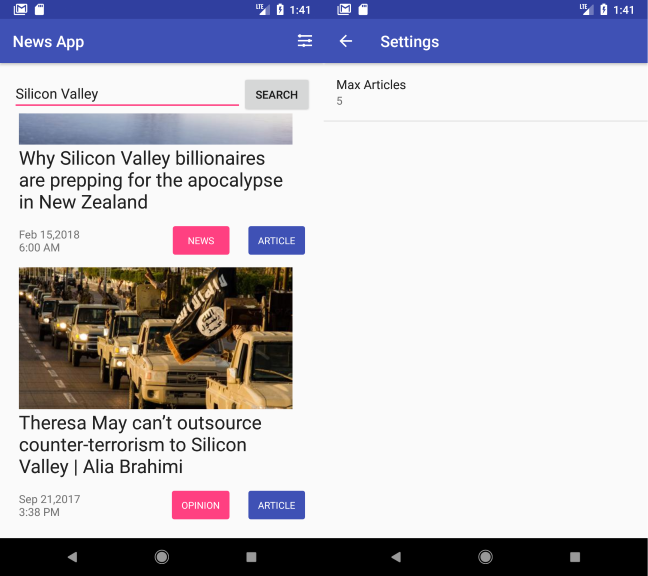
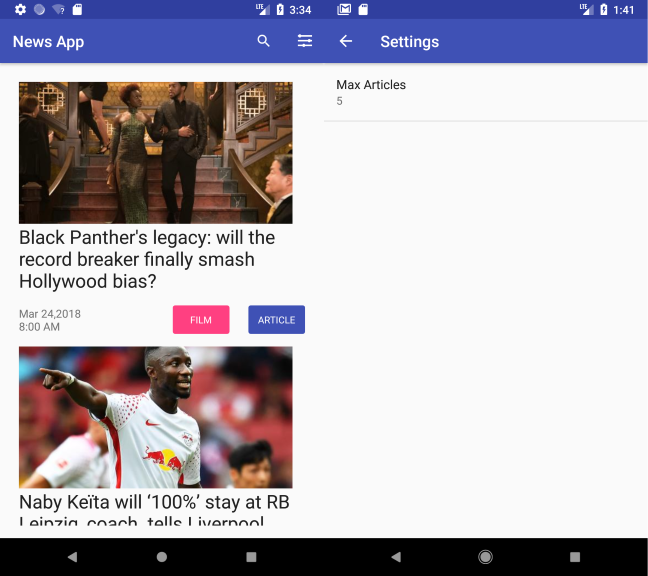
NewsApp: implemented RecyclerView, ViewHolder and SerachView

diff --git a/NewsApp/app/src/main/java/com/example/android/newsapp/MainActivity.java b/NewsApp/app/src/main/java/com/example/android/newsapp/MainActivity.java
@@ -9,8 +9,12 @@ import android.net.ConnectivityManager;
 import android.net.NetworkInfo;
 import android.net.Uri;
 import android.preference.PreferenceManager;
+import android.support.v4.view.MenuItemCompat;
 import android.support.v7.app.AppCompatActivity;
 import android.os.Bundle;
+import android.support.v7.widget.LinearLayoutManager;
+import android.support.v7.widget.RecyclerView;
+import android.util.Log;
 import android.view.Menu;
 import android.view.MenuItem;
 import android.view.View;
@@ -19,17 +23,25 @@ import android.widget.Button;
 import android.widget.EditText;
 import android.widget.ListView;
 import android.widget.ProgressBar;
+import android.widget.SearchView;
 import android.widget.TextView;
 
 import java.util.ArrayList;
 import java.util.List;
 
-public class MainActivity extends AppCompatActivity implements LoaderManager.LoaderCallbacks<List<News>> {
+import javax.security.auth.login.LoginException;
 
+public class MainActivity extends AppCompatActivity implements SearchView.OnQueryTextListener,LoaderManager.LoaderCallbacks<List<News>> {
+
+    public static final String LOG_TAG = MainActivity.class.getName();
+
+    private static final int NEWS_LOADER_ID = 1;
 
     private static final String NEWS_REQUEST_URL = "http://content.guardianapis.com/search";
 
     private String API_URL = "";
+
+    private String searchQuery;
 
     private TextView emptyTextView;
 
@@ -39,54 +51,95 @@ public class MainActivity extends AppCompatActivity implements LoaderManager.Loa
 
     private Button searchButton;
 
+    private RecyclerView mRecyclerView;
+
+    private ProgressBar progressBar;
+
     @Override
     protected void onCreate(Bundle savedInstanceState) {
         super.onCreate(savedInstanceState);
         setContentView(R.layout.activity_main);
 
-        ListView newsListView = (ListView) findViewById(R.id.list);
-
-        mAdapter = new NewsAdapter(this, new ArrayList<News>());
-
-        newsListView.setAdapter(mAdapter);
+        mRecyclerView = (RecyclerView) findViewById(R.id.recycler_view);
 
         emptyTextView = (TextView) findViewById(R.id.empty_view);
-        newsListView.setEmptyView(emptyTextView);
 
-        newsListView.setOnItemClickListener(new AdapterView.OnItemClickListener() {
+        progressBar = (ProgressBar) findViewById(R.id.loading_spinner);
+
+        mRecyclerView.setHasFixedSize(true);
+        LinearLayoutManager mLayoutManager = new LinearLayoutManager(this);
+        mRecyclerView.setLayoutManager(mLayoutManager);
+
+
+        mAdapter = new NewsAdapter(new ArrayList<News>(), new NewsAdapter.OnItemClickListener() {
             @Override
-            public void onItemClick(AdapterView<?> adapterView, View view, int i, long l) {
-                News news = mAdapter.getItem(i);
+            public void onClick(News news) {
+                Log.e(LOG_TAG, "onClick: INTENT");
                 Uri newsUri = Uri.parse(news.getNewsUrl());
                 Intent websiteIntent = new Intent(Intent.ACTION_VIEW, newsUri);
                 startActivity(websiteIntent);
             }
         });
 
+        mRecyclerView.setAdapter(mAdapter);
+
+
+        //mRecyclerView.setEmptyView(emptyTextView);
+
+//        newsListView.setOnItemClickListener(new AdapterView.OnItemClickListener() {
+//            @Override
+//            public void onItemClick(AdapterView<?> adapterView, View view, int i, long l) {
+//                News news = mAdapter.getItem(i);
+//                Uri newsUri = Uri.parse(news.getNewsUrl());
+//                Intent websiteIntent = new Intent(Intent.ACTION_VIEW, newsUri);
+//                startActivity(websiteIntent);
+//            }
+//        });
+
         ConnectivityManager cm = (ConnectivityManager) getSystemService(Context.CONNECTIVITY_SERVICE);
         final NetworkInfo activeNetwork = cm.getActiveNetworkInfo();
 
-        searchButton = (Button) findViewById(R.id.search_button);
-        searchEditText = (EditText) findViewById(R.id.search_view);
-        final LoaderManager loaderManager = getLoaderManager();
-        searchButton.setOnClickListener(new View.OnClickListener() {
-            @Override
-            public void onClick(View view) {
-                if (activeNetwork != null && activeNetwork.isConnectedOrConnecting()) {
-                    loaderManager.destroyLoader(1);
-                    loaderManager.initLoader(1, null, MainActivity.this);
-                } else {
-                    ProgressBar progressBar = (ProgressBar) findViewById(R.id.loading_spinner);
-                    progressBar.setVisibility(View.GONE);
-                    emptyTextView.setText(R.string.no_internet);
-                }
-            }
-        });
+        LoaderManager loaderManager = getLoaderManager();
+        if (activeNetwork != null && activeNetwork.isConnectedOrConnecting()) {
+            loaderManager.destroyLoader(NEWS_LOADER_ID);
+            loaderManager.initLoader(NEWS_LOADER_ID, null, MainActivity.this);
+            Log.e(LOG_TAG, "onClick: BUTTON CLICKED!!");
+        } else {
+            mRecyclerView.setVisibility(View.GONE);
+            progressBar.setVisibility(View.GONE);
+            emptyTextView.setVisibility(View.VISIBLE);
+            emptyTextView.setText(R.string.no_internet);
+        }
+
+
+
+//        searchButton = (Button) findViewById(R.id.search_button);
+//        searchEditText = (EditText) findViewById(R.id.search_view);
+//        final LoaderManager loaderManager = getLoaderManager();
+//        searchButton.setFocusable(false);
+//        searchButton.setOnClickListener(new View.OnClickListener() {
+//            @Override
+//            public void onClick(View view) {
+//                if (activeNetwork != null && activeNetwork.isConnectedOrConnecting()) {
+//                    loaderManager.destroyLoader(NEWS_LOADER_ID);
+//                    loaderManager.initLoader(NEWS_LOADER_ID, null, MainActivity.this);
+//                    Log.e(LOG_TAG, "onClick: BUTTON CLICKED!!");
+//                } else {
+//                    progressBar = (ProgressBar) findViewById(R.id.loading_spinner);
+//                    mRecyclerView.setVisibility(View.GONE);
+//                    progressBar.setVisibility(View.GONE);
+//                    emptyTextView.setVisibility(View.VISIBLE);
+//                    emptyTextView.setText(R.string.no_internet);
+//                }
+//            }
+//        });
 
     }
 
     @Override
     public Loader<List<News>> onCreateLoader(int i, Bundle bundle) {
+        mRecyclerView.setVisibility(View.GONE);
+        progressBar.setVisibility(View.VISIBLE);
         SharedPreferences sharedPreferences = PreferenceManager.getDefaultSharedPreferences(this);
         String max_article = sharedPreferences.getString(getString(R.string.settings_max_articles_key), getString(R.string.settings_max_articles_default));
         Uri baseUri = Uri.parse(NEWS_REQUEST_URL);
@@ -94,7 +147,8 @@ public class MainActivity extends AppCompatActivity implements LoaderManager.Loa
         uriBuilder.appendQueryParameter("page-size", max_article);
         uriBuilder.appendQueryParameter("show-fields", "thumbnail");
         uriBuilder.appendQueryParameter("api-key", "test");
-        uriBuilder.appendQueryParameter("q", searchEditText.getText().toString());
+        uriBuilder.appendQueryParameter("q", searchQuery);
+        Log.e(LOG_TAG, "onCreateLoader: "+ uriBuilder.toString());
         return new NewsLoader(this, uriBuilder.toString());
     }
 
@@ -107,6 +161,8 @@ public class MainActivity extends AppCompatActivity implements LoaderManager.Loa
         mAdapter.clear();
 
         if (news != null && !news.isEmpty()) {
+            mRecyclerView.setVisibility(View.VISIBLE);
+            emptyTextView.setVisibility(View.GONE);
             mAdapter.addAll(news);
         }
 
@@ -121,6 +177,9 @@ public class MainActivity extends AppCompatActivity implements LoaderManager.Loa
     @Override
     public boolean onCreateOptionsMenu(Menu menu) {
         getMenuInflater().inflate(R.menu.menu_layout, menu);
+        MenuItem search = menu.findItem(R.id.search);
+        SearchView searchView = (SearchView) search.getActionView();
+        searchView.setOnQueryTextListener(this);
         return true;
     }
 
@@ -136,4 +195,15 @@ public class MainActivity extends AppCompatActivity implements LoaderManager.Loa
     }
 
 
+    @Override
+    public boolean onQueryTextSubmit(String s) {
+        return true;
+    }
+
+    @Override
+    public boolean onQueryTextChange(String s) {
+        searchQuery = s;
+        getLoaderManager().restartLoader(NEWS_LOADER_ID, null, this);
+        return true;
+    }
 }

diff --git a/NewsApp/app/src/main/java/com/example/android/newsapp/NewsAdapter.java b/NewsApp/app/src/main/java/com/example/android/newsapp/NewsAdapter.java
@@ -4,6 +4,7 @@ import android.app.LoaderManager;
 import android.content.Context;
 import android.support.annotation.NonNull;
 import android.support.annotation.Nullable;
+import android.support.v7.widget.RecyclerView;
 import android.util.Log;
 import android.view.LayoutInflater;
 import android.view.View;
@@ -25,31 +26,36 @@ import java.util.List;
  * Created by sjani on 2/21/2018.
  */
 
-public class NewsAdapter extends ArrayAdapter<News> {
+public class NewsAdapter extends RecyclerView.Adapter<NewsAdapter.NewsAdapterViewHolder> {
 
     private static final String LOG_TAG = NewsAdapter.class.getSimpleName();
+    private List<News> NewsList;
+    private final OnItemClickListener mClickHandlar;
+    private Context mContext;
 
-    public NewsAdapter(@NonNull Context context, @NonNull List<News> objects) {
-        super(context, 0, objects);
+    public NewsAdapter(List<News> newsList,OnItemClickListener clickHandler) {
+        NewsList = newsList;
+        mClickHandlar = clickHandler;
     }
 
-    @NonNull
+    public interface OnItemClickListener  {
+        void onClick(News news);
+    }
+
     @Override
-    public View getView(int position, @Nullable View convertView, @NonNull ViewGroup parent) {
-        View listItemView = convertView;
-        if (listItemView == null) {
-            listItemView = LayoutInflater.from(getContext()).inflate(R.layout.list_item, parent, false);
-        }
+    public NewsAdapterViewHolder onCreateViewHolder(ViewGroup parent, int viewType) {
+        mContext = parent.getContext();
+        View newsView = LayoutInflater.from(mContext).inflate(R.layout.list_item, parent, false);
+        NewsAdapterViewHolder newsAdapterViewHolder = new NewsAdapterViewHolder(newsView);
+        return newsAdapterViewHolder;
+    }
 
-        final News news = getItem(position);
+    @Override
+    public void onBindViewHolder(NewsAdapterViewHolder holder, int position) {
+        News news = NewsList.get(position);
+        Picasso.with(mContext).load(news.getNewsThumbnail()).into(holder.imageView);
+        holder.titleView.setText(news.getNewsHeadline());
 
-        ImageView imageView = (ImageView) listItemView.findViewById(R.id.news_image);
-        Picasso.with(getContext()).load(news.getNewsThumbnail()).into(imageView);
-
-        TextView titleView = (TextView) listItemView.findViewById(R.id.news_title);
-        titleView.setText(news.getNewsHeadline());
-
-        TextView dateView = (TextView) listItemView.findViewById(R.id.news_date);
         String dateObject = news.getNewsDate();
         String date = "";
         try {
@@ -60,18 +66,56 @@ public class NewsAdapter extends ArrayAdapter<News> {
         } catch (ParseException p) {
             Log.e(LOG_TAG, "Problem parsing date", p);
         }
-        dateView.setText(date);
+        holder.dateView.setText(date);
+
+        holder.sectionView.setText(news.getNewsSection());
+        holder.typeView.setText(news.getNewsType());
+        holder.bind(news,mClickHandlar);
+    }
+
+    @Override
+    public int getItemCount() {
+        return NewsList.size();
+    }
+
+    public class NewsAdapterViewHolder extends RecyclerView.ViewHolder {
+
+        public final ImageView imageView;
+        public final TextView titleView;
+        public final TextView dateView;
+        public final TextView sectionView;
+        public final TextView typeView;
+
+        public NewsAdapterViewHolder(View view){
+            super(view);
+            imageView = (ImageView) view.findViewById(R.id.news_image);
+            titleView = (TextView) view.findViewById(R.id.news_title);
+            dateView = (TextView) view.findViewById(R.id.news_date);
+            sectionView = (TextView) view.findViewById(R.id.news_section);
+            typeView = (TextView) view.findViewById(R.id.news_type);
+        }
+
+        public void bind (final News news, final OnItemClickListener listener){
+            itemView.setOnClickListener(new View.OnClickListener() {
+                @Override
+                public void onClick(View view) {
+                    listener.onClick(news);
+                }
+            });
+        }
 
 
-        TextView sectionView = (TextView) listItemView.findViewById(R.id.news_section);
-        sectionView.setText(news.getNewsSection());
 
-        TextView typeView = (TextView) listItemView.findViewById(R.id.news_type);
-        typeView.setText(news.getNewsType());
+    }
 
+    public void addAll(List<News> newsList){
+        NewsList = newsList;
+        notifyDataSetChanged();
+    }
 
-        return listItemView;
-
+    public void clear(){
+        NewsList.clear();
+        notifyDataSetChanged();
     }
 
 }

diff --git a/README.md b/README.md
@@ -1,4 +1,4 @@
-# Android Basic App Bundle
+# Android App Bundle
 ### README
 #### Version: 1.0
 #### Author: Shaunak Jani
